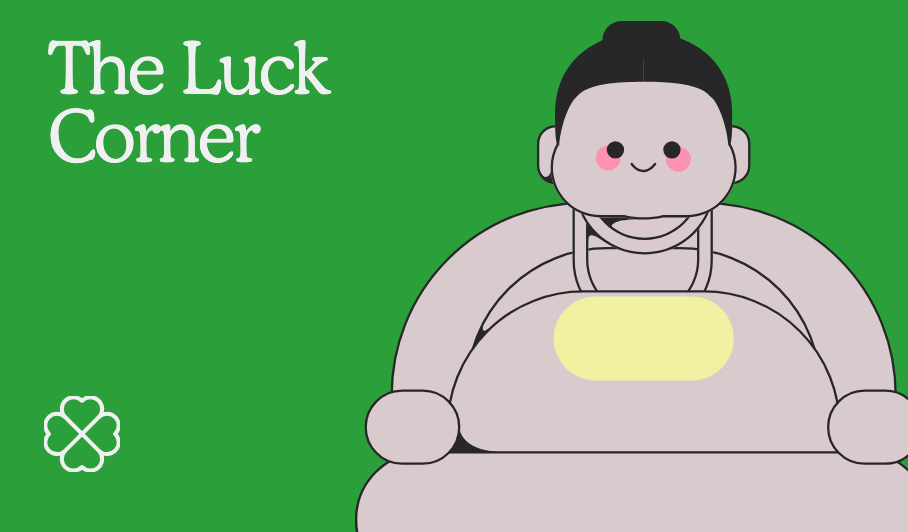
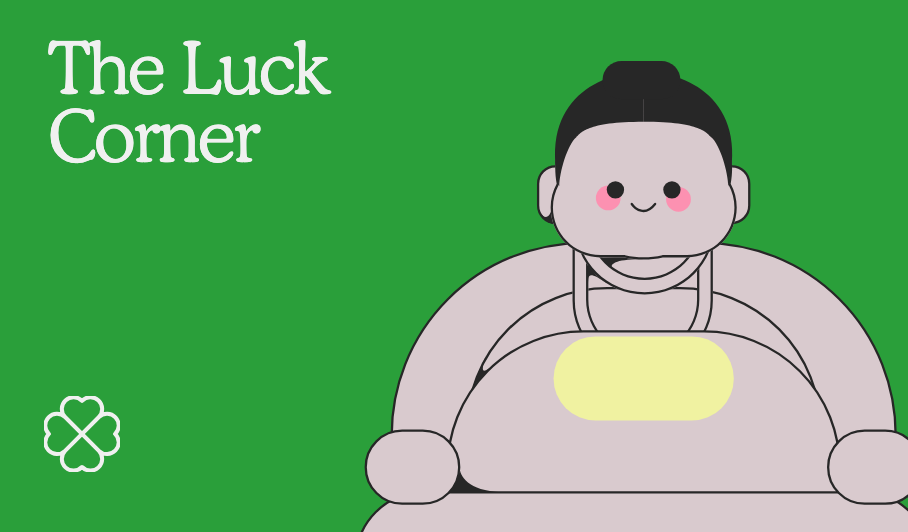
Share previews: buddha lower; dreamcatcher bigger without clouds, string off the top; pig smaller and higher; wearing red higher; rice cakes a touch left; grapes with the arm bleeding off

Changed region(s): [[0.37, 0.0301, 1.0, 1.0], [0.9251, 0.9323, 1.0, 0.9624]]

diff --git a/og.html b/og.html
@@ -86,15 +86,15 @@
     // the edges; or a scale on the whole drawing, fitted
     const VIEW = {
       dandelion: [-88, -26, 538, 532],
-      'wear-red': [76, 200, 576, 580],
+      'wear-red': [76, 290, 576, 580],
       hito: [-58, -33, 653, 547],
-      buddha: [-26, -14, 388, 348],
-      dreamcatcher: [60, -15, 513, 754],
+      buddha: [-26, -40, 388, 348],
+      dreamcatcher: [107, 110, 420, 560],
       flower: [-57, -13, 402, 384],
-      pig: [-31, -29, 473, 461],
-      grapes: [-168, 78, 692, 692],
+      pig: [-55, 0, 520, 510],
+      grapes: [-121, 75, 630, 695],
       'teru-teru': [14, 124, 487, 531],
-      'rice-cakes': [-10, -10, 640, 600],
+      'rice-cakes': [-10, -10, 655, 600],
       stones: 0.88,
       clover: 1.2,
     };
@@ -118,7 +118,7 @@
     const card = (name) => `<div class="og" style="--bg: ${CARD_COLOR[name]}" data-ink="${ink(CARD_COLOR[name])}">
         <p class="og--name">The Luck<br>Corner</p>
         <span class="og--clover"></span>
-        <img class="og--art" data-slug="${SHARE_SLUG[name]}" src="assets/og/art/${SHARE_SLUG[name]}.svg?v=2" alt="" onload="frame(this)">
+        <img class="og--art" data-slug="${SHARE_SLUG[name]}" src="assets/og/art/${SHARE_SLUG[name]}.svg?v=3" alt="" onload="frame(this)">
       </div>`;
     const want = new URLSearchParams(location.search).get('card');
     const out = document.getElementById('out');
